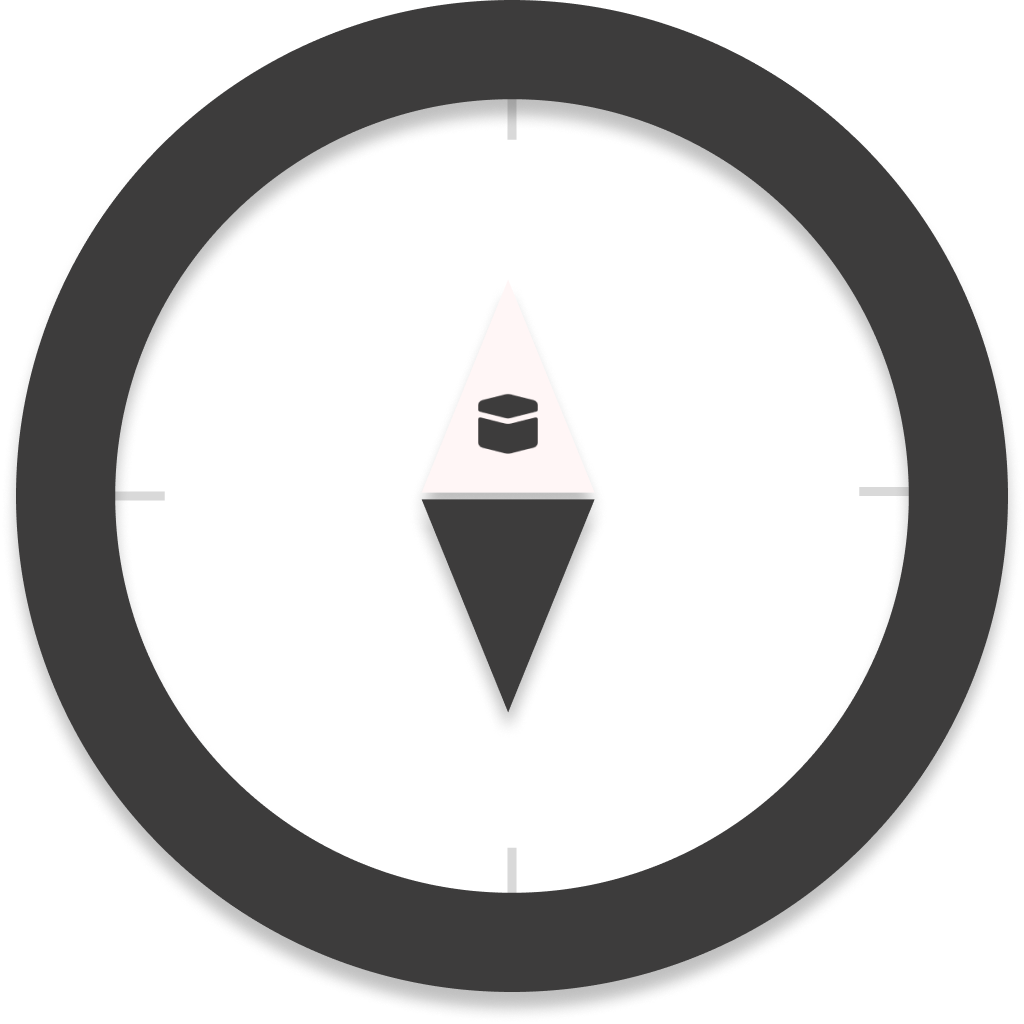
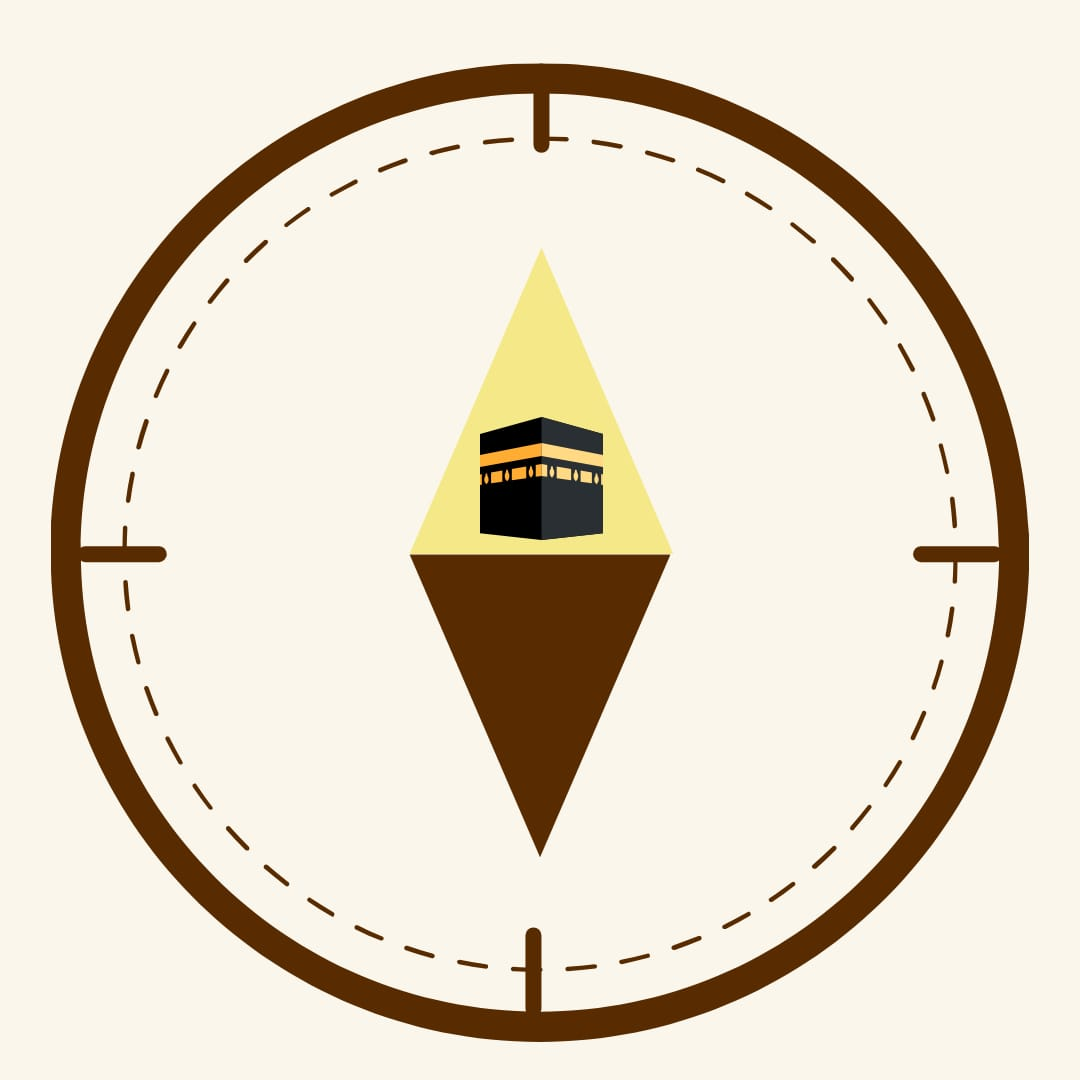
change setting to qibla

diff --git a/lib/Features/layout/presentation/views/layout_body.dart b/lib/Features/layout/presentation/views/layout_body.dart
@@ -1,12 +1,12 @@
 import 'package:curved_navigation_bar/curved_navigation_bar.dart';
 import 'package:fastaqm_app/Core/constatnts/assets_manager.dart';
+import 'package:fastaqm_app/Features/qibla/presentation/views/qibla_body.dart';
 import 'package:flutter/material.dart';
 
 import '../../../../Core/constatnts/colors.dart';
 import '../../../../Core/widgets/App_name.dart';
 import '../../../home/presentation/views/home_body.dart';
 import '../../../saves/presentation/views/saves_body.dart';
-import '../../../settings/presentation/views/settings_body.dart';
 
 class LayoutScreen extends StatefulWidget {
   const LayoutScreen({
@@ -20,8 +20,8 @@ class LayoutScreen extends StatefulWidget {
 class _LayoutScreenState extends State<LayoutScreen> {
   List<Widget> screens = [
     const SavesScreen(),
-    const SettingsScreen(),
-    HomeScreen(),
+    const QiblaScreen(),
+    const HomeScreen(),
   ];
   int _page = 2;
   final GlobalKey<CurvedNavigationBarState> _bottomNavigationKey = GlobalKey();
@@ -50,10 +50,10 @@ class _LayoutScreenState extends State<LayoutScreen> {
           width: navBarIconSize,
           color: MyColors.whiteColor,
         ),
-        Icon(
-          Icons.settings,
-          size: navBarIconSize,
-          color: MyColors.whiteColor,
+        Image.asset(
+          AssetsManager.makaaIcon,
+          width: navBarIconSize,
+          //color: MyColors.whiteColor,
         ),
         Image.asset(
           AssetsManager.homeIcon,

diff --git a/lib/Features/azkar/presentation/views/azkar_body.dart b/lib/Features/azkar/presentation/views/azkar_body.dart
@@ -1,6 +1,10 @@
+import 'package:fastaqm_app/Core/constatnts/assets_manager.dart';
+import 'package:fastaqm_app/Core/widgets/custom_app_bar.dart';
 import 'package:flutter/material.dart';
 import 'package:flutter_bloc/flutter_bloc.dart';
 
+import '../../../../Core/constatnts/colors.dart';
+import '../../../../Core/constatnts/variables.dart';
 import '../controller/azkar_cubit.dart';
 
 class AzkarScreen extends StatelessWidget {
@@ -14,8 +18,21 @@ class AzkarScreen extends StatelessWidget {
         listener: (context, state) {},
         builder: (context, state) {
           return Scaffold(
+            appBar: customAppBar(context),
             body: Column(
-              children: [Text("اذكار ")],
+              children: [
+                Container(
+                  width: AppVariables.appSize(context).width * 0.2,
+                  height: AppVariables.appSize(context).width * 0.2,
+                  decoration: BoxDecoration(
+                    color: MyColors.lightBrown,
+                    borderRadius: BorderRadius.circular(40),
+                  ),
+                  child: Center(
+                    child: Image.asset(AssetsManager.sunIcon),
+                  ),
+                ),
+              ],
             ),
           );
         },

diff --git a/lib/Features/home/presentation/views/home_body.dart b/lib/Features/home/presentation/views/home_body.dart
@@ -1,10 +1,7 @@
 import 'package:fastaqm_app/Core/constatnts/app_functions.dart';
-import 'package:fastaqm_app/Core/constatnts/app_strings.dart';
 import 'package:fastaqm_app/Core/constatnts/assets_manager.dart';
 import 'package:fastaqm_app/Core/constatnts/colors.dart';
 import 'package:fastaqm_app/Core/constatnts/variables.dart';
-import 'package:fastaqm_app/Core/helpers/cachehelper.dart';
-import 'package:fastaqm_app/Features/home/presentation/views/widgets/qiblah_screen.dart';
 import 'package:fastaqm_app/Features/pray_time/presentation/views/pray_time_body.dart';
 import 'package:flutter/material.dart';
 
@@ -24,8 +21,8 @@ class HomeScreen extends StatelessWidget {
         crossAxisAlignment: CrossAxisAlignment.center,
         mainAxisAlignment: MainAxisAlignment.center,
         children: [
-          if (CacheHelper.getDate(key: AppStrings.locationKey) == true)
-            const Expanded(child: QiblahScreen()),
+          // if (CacheHelper.getDate(key: AppStrings.locationKey) == true)
+          //   const Expanded(child: QiblahScreen()),
           // if (CacheHelper.getDate(key: AppStrings.locationKey) == false)
           //   const CustomErrorContainer(
           //     title: "قم بتفعيل الموقع\nلاظهار القبلة",

diff --git a/lib/Features/qibla/presentation/views/qibla_body.dart b/lib/Features/qibla/presentation/views/qibla_body.dart
@@ -1,0 +1,21 @@
+import 'package:fastaqm_app/Core/widgets/customErrorContainer.dart';
+import 'package:fastaqm_app/Features/qibla/presentation/views/widgets/qiblah_screen.dart';
+import 'package:flutter/material.dart';
+
+import '../../../../Core/constatnts/app_strings.dart';
+import '../../../../Core/helpers/cachehelper.dart';
+
+class QiblaScreen extends StatelessWidget {
+  const QiblaScreen({Key? key}) : super(key: key);
+
+  @override
+  Widget build(BuildContext context) {
+    if (CacheHelper.getDate(key: AppStrings.locationKey) == true) {
+      return const QiblahScreen();
+    }
+    return const Scaffold(
+      body: CustomErrorContainer(title: 'قم بتفعيل الموقع'),
+    );
+    //
+  }
+}

diff --git a/lib/Features/qibla/presentation/views/widgets/qiblah_screen.dart b/lib/Features/qibla/presentation/views/widgets/qiblah_screen.dart
@@ -63,7 +63,7 @@ class _QiblahScreenState extends State<QiblahScreen>
                       height: 10,
                     ),
                     SizedBox(
-                        height: AppVariables.appSize(context).height * 0.22,
+                        height: AppVariables.appSize(context).height * 0.33,
                         child: AnimatedBuilder(
                           animation: animation!,
                           builder: (context, child) => Transform.rotate(

diff --git a/lib/Core/constatnts/assets_manager.dart b/lib/Core/constatnts/assets_manager.dart
@@ -18,4 +18,7 @@ class AssetsManager {
   static const bakiatImage = '$baseImagesPath/bakiat_image.png';
   static const ayaBakiatImage = '$baseImagesPath/aya_bakiat.png';
   static const qiblaImage = '$baseImagesPath/qibla.png';
+  static const sunIcon = '$baseImagesPath/sun_icon.png';
+  static const moonIcon = '$baseImagesPath/moon_icon.png';
+  static const sleepIcon = '$baseImagesPath/sleep_icon.png';
 }
